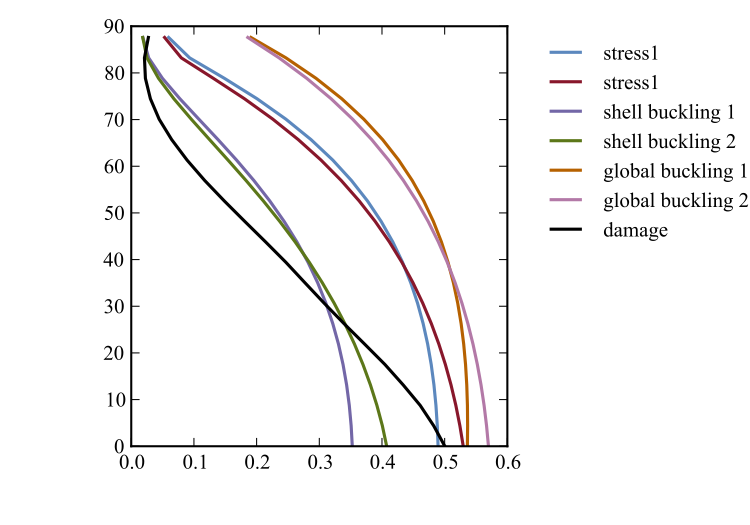
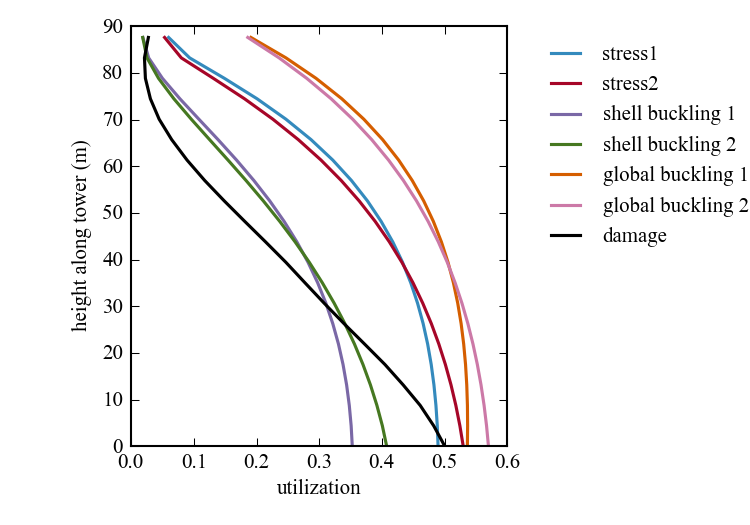
minor documentation update

diff --git a/src/towerse/tower.py b/src/towerse/tower.py
@@ -1136,19 +1136,19 @@ class TowerWithFrame3DD(TowerBase):
 class TowerSE(Assembly):
 
     # geometry
-    towerHeight = Float(iotype='in', units='m')
-    monopileHeight = Float(0.0, iotype='in', units='m')
-    d_monopile = Float(iotype='in', units='m')
-    t_monopile = Float(iotype='in', units='m')
+    towerHeight = Float(iotype='in', units='m', desc='height of tower')
+    monopileHeight = Float(0.0, iotype='in', units='m', desc='height of monopile (0.0 if no monopile)')
+    d_monopile = Float(iotype='in', units='m', desc='diameter of monopile')
+    t_monopile = Float(iotype='in', units='m', desc='wall thickness of monopile')
     z = Array(iotype='in', desc='locations along unit tower, linear lofting between')
     d = Array(iotype='in', units='m', desc='tower diameter at corresponding locations')
     t = Array(iotype='in', units='m', desc='shell thickness at corresponding locations')
     n = Array(iotype='in', dtype=np.int, desc='number of finite elements between sections.  array length should be ``len(z)-1``')
-    L_reinforced = Float(iotype='in', units='m')
-    n_monopile = Int(iotype='in', desc='must be a minimum of 1 (top and bottom)')
-    yaw = Float(0.0, iotype='in', units='deg')
-    tilt = Float(0.0, iotype='in', units='deg')
-    downwind = Bool(False, iotype='in')
+    L_reinforced = Float(iotype='in', units='m', desc='distance along tower for reinforcements used in buckling calc')
+    n_monopile = Int(iotype='in', desc='number of finite elements in monopile, must be a minimum of 1 (top and bottom nodes)')
+    yaw = Float(0.0, iotype='in', units='deg', desc='yaw angle')
+    tilt = Float(0.0, iotype='in', units='deg', desc='tilt angle')
+    downwind = Bool(False, iotype='in', desc='flag if rotor is downwind')
 
     # environment
     wind_rho = Float(1.225, iotype='in', units='kg/m**3', desc='air density')
@@ -1162,11 +1162,11 @@ class TowerSE(Assembly):
     wave_mu = Float(1.3351e-3, iotype='in', units='kg/(m*s)', desc='dynamic viscosity of water')
     wave_cm = Float(2.0, iotype='in', desc='mass coefficient')
 
-    g = Float(9.81, iotype='in', units='m/s**2')
+    g = Float(9.81, iotype='in', units='m/s**2', desc='acceleration of gravity')
 
     # constraint parameters
-    min_d_to_t = Float(120.0, iotype='in')
-    min_taper = Float(0.4, iotype='in')
+    min_d_to_t = Float(120.0, iotype='in', desc='minimum allowable diameter to thickness ratio')
+    min_taper = Float(0.4, iotype='in', desc='minimum allowable taper ratio from tower top to tower bottom')
 
 
     # rotor loads
@@ -1176,7 +1176,7 @@ class TowerSE(Assembly):
     rotorM2 = Array(np.zeros(3), iotype='in', desc='moments in hub-aligned coordinate system at rotor hub')
 
     # RNA mass properties
-    blades_mass = Float(iotype='in', units='kg', desc='mass of all blade')
+    blades_mass = Float(iotype='in', units='kg', desc='mass of all blades')
     hub_mass = Float(iotype='in', units='kg', desc='mass of hub')
     nac_mass = Float(iotype='in', units='kg', desc='mass of nacelle')
 
@@ -1204,8 +1204,8 @@ class TowerSE(Assembly):
     m_SN = Int(4, iotype='in', desc='slope of S/N curve')
     DC = Float(80.0, iotype='in', desc='standard value of stress')
     gamma_fatigue = Float(1.755, iotype='in', desc='total safety factor for fatigue')
-    z_DEL = Array(iotype='in')
-    M_DEL = Array(iotype='in')
+    z_DEL = Array(iotype='in', desc='locations along unit tower for M_DEL')
+    M_DEL = Array(iotype='in', units='N*m', desc='damage equivalent moments along tower')
 
     # replace
     wind1 = Slot(WindBase)
@@ -1448,7 +1448,7 @@ class TowerSE(Assembly):
 if __name__ == '__main__':
 
 
-    optimize = True
+    optimize = False
 
     # --- tower setup ------
     from commonse.environment import PowerWind, TowerSoil
@@ -1572,13 +1572,15 @@ if __name__ == '__main__':
     plt.figure(figsize=(5.0, 3.5))
     plt.subplot2grid((3, 3), (0, 0), colspan=2, rowspan=3)
     plt.plot(tower.stress1, tower.z_nodes, label='stress1')
-    plt.plot(tower.stress2, tower.z_nodes, label='stress1')
+    plt.plot(tower.stress2, tower.z_nodes, label='stress2')
     plt.plot(tower.shellBuckling1, tower.z_nodes, label='shell buckling 1')
     plt.plot(tower.shellBuckling2, tower.z_nodes, label='shell buckling 2')
     plt.plot(tower.buckling1, tower.z_nodes, label='global buckling 1')
     plt.plot(tower.buckling2, tower.z_nodes, label='global buckling 2')
     plt.plot(tower.damage, tower.z_nodes, label='damage')
     plt.legend(bbox_to_anchor=(1.05, 1.0), loc=2)
+    plt.xlabel('utilization')
+    plt.ylabel('height along tower (m)')
     plt.show()
     # ------------
 
@@ -1618,6 +1620,8 @@ if __name__ == '__main__':
         tower.driver.add_constraint('tower2.stress <= 1.0')
         tower.driver.add_constraint('tower1.buckling <= 1.0')
         tower.driver.add_constraint('tower2.buckling <= 1.0')
+        tower.driver.add_constraint('tower1.shellBuckling <= 1.0')
+        tower.driver.add_constraint('tower2.shellBuckling <= 1.0')
         tower.driver.add_constraint('tower1.damage <= 1.0')
         tower.driver.add_constraint('gc.weldability <= 0.0')
         tower.driver.add_constraint('gc.manufactuability <= 0.0')
@@ -1628,3 +1632,4 @@ if __name__ == '__main__':
         # --- run opt ---
         tower.run()
         # ---------------
+
